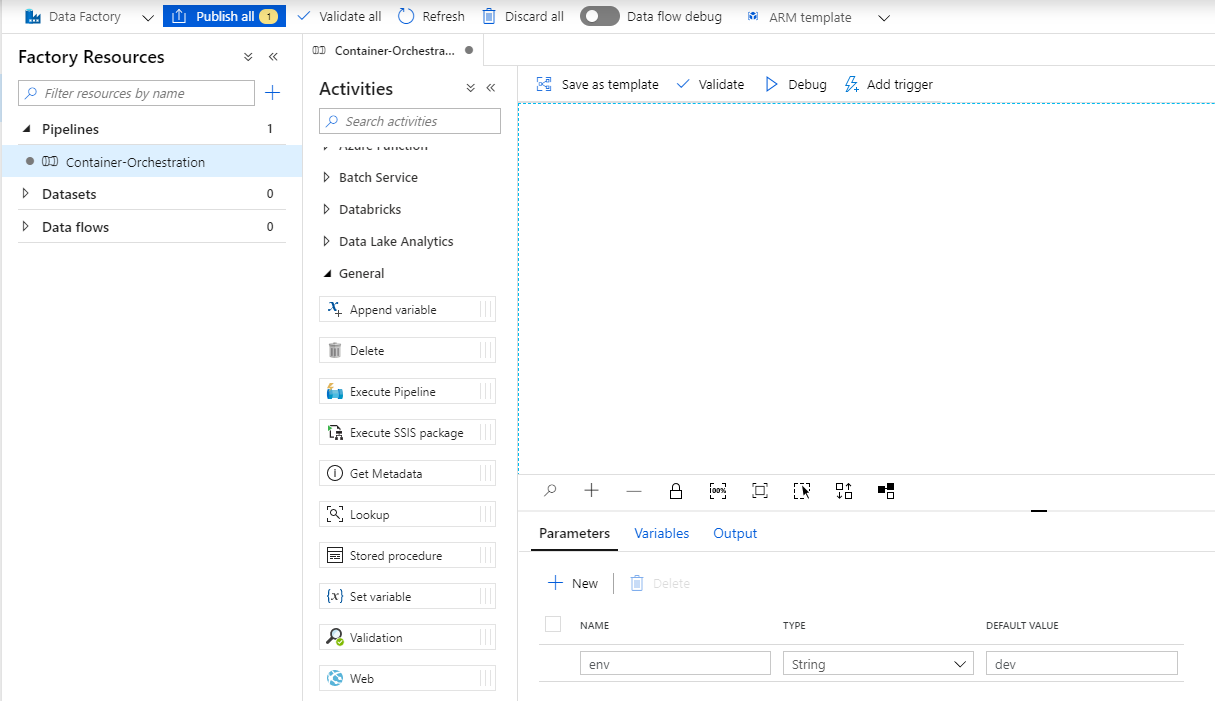
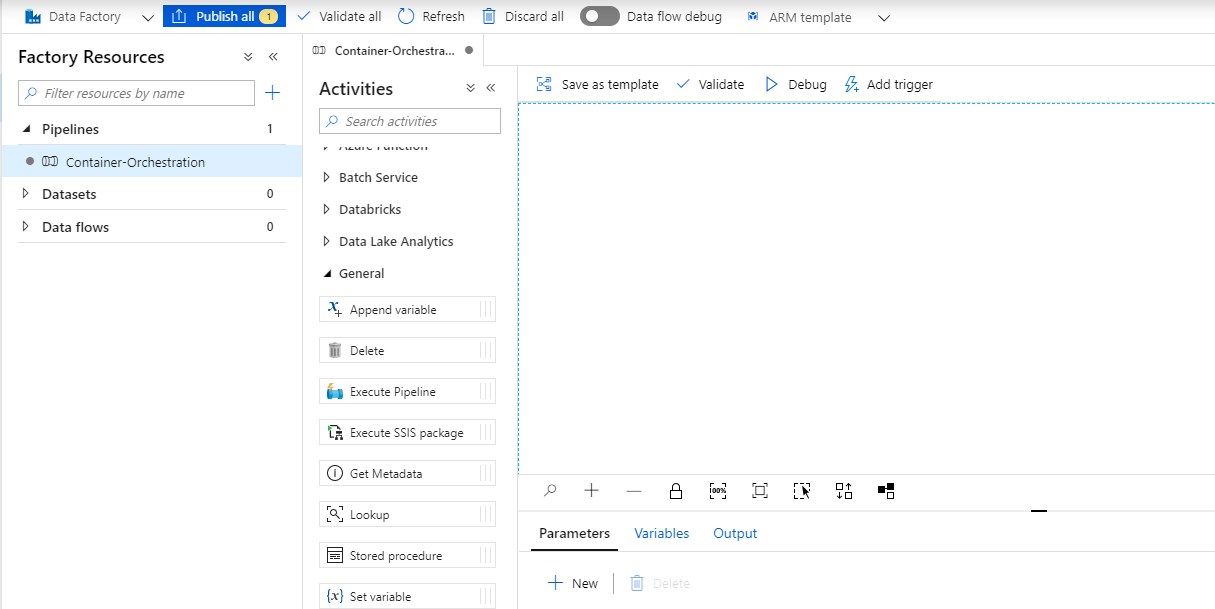
Docs update - global parameters instead of pipeline parameters

diff --git a/README.md b/README.md
@@ -96,7 +96,11 @@ docker push kgdemoacrdev.azurecr.io/container1:latest
 
 Now comes the fun part. Orchestrating containers from Data Factory.
 
-Open Data Factory and create new pipeline, e.g. "Container-Orchestration". And for this pipeline set parameter `env` with value `dev`.
+Open Data Factory and create new global parameter `env` with value `dev`.
+
+![](Docs/images/df0.png)
+
+Now create new pipeline, e.g. "Container-Orchestration".
 
 ![](Docs/images/df1.png)
 
@@ -110,11 +114,11 @@ Then create 5 Web Activities and in each activity check Secure output, choose GE
 
 In each activity fill in URL respectively (dynamic content).
 
-* `@{concat('https://kgdemokeyvault', pipeline().parameters.env, '.vault.azure.net/secrets/ACR-LOGIN-SERVER/?api-version=7.0')}`
-* `@{concat('https://kgdemokeyvault', pipeline().parameters.env, '.vault.azure.net/secrets/ACR-USERNAME/?api-version=7.0')}`
-* `@{concat('https://kgdemokeyvault', pipeline().parameters.env, '.vault.azure.net/secrets/ACR-PASSWORD/?api-version=7.0')}`
-* `@{concat('https://kgdemokeyvault', pipeline().parameters.env, '.vault.azure.net/secrets/ACI-PROXY-URL/?api-version=7.0')}`
-* `@{concat('https://kgdemokeyvault', pipeline().parameters.env, '.vault.azure.net/secrets/ACI-PROXY-KEY/?api-version=7.0')}`
+* `@{concat('https://kgdemokeyvault', pipeline().globalParameters.env, '.vault.azure.net/secrets/ACR-LOGIN-SERVER/?api-version=7.0')}`
+* `@{concat('https://kgdemokeyvault', pipeline().globalParameters.env, '.vault.azure.net/secrets/ACR-USERNAME/?api-version=7.0')}`
+* `@{concat('https://kgdemokeyvault', pipeline().globalParameters.env, '.vault.azure.net/secrets/ACR-PASSWORD/?api-version=7.0')}`
+* `@{concat('https://kgdemokeyvault', pipeline().globalParameters.env, '.vault.azure.net/secrets/ACI-PROXY-URL/?api-version=7.0')}`
+* `@{concat('https://kgdemokeyvault', pipeline().globalParameters.env, '.vault.azure.net/secrets/ACI-PROXY-KEY/?api-version=7.0')}`
 
 ![](Docs/images/df2.png)
 
